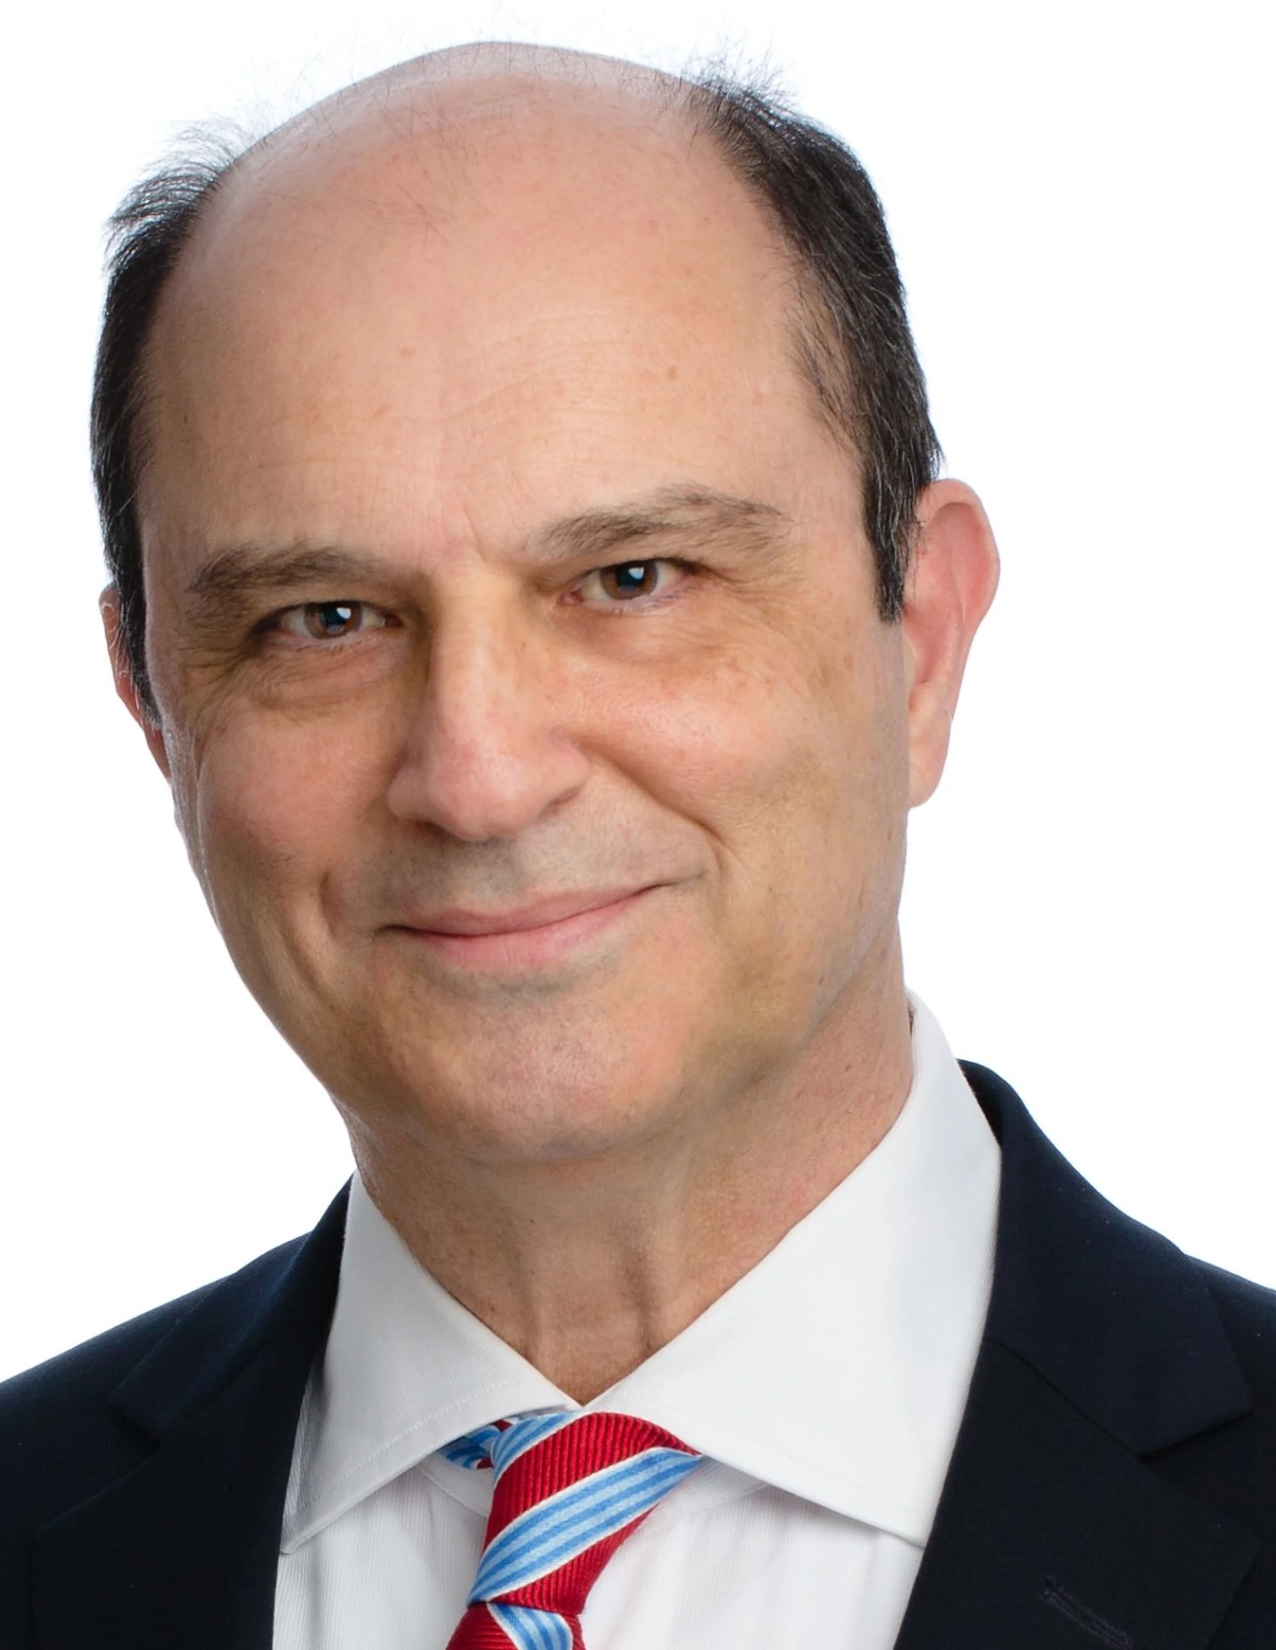
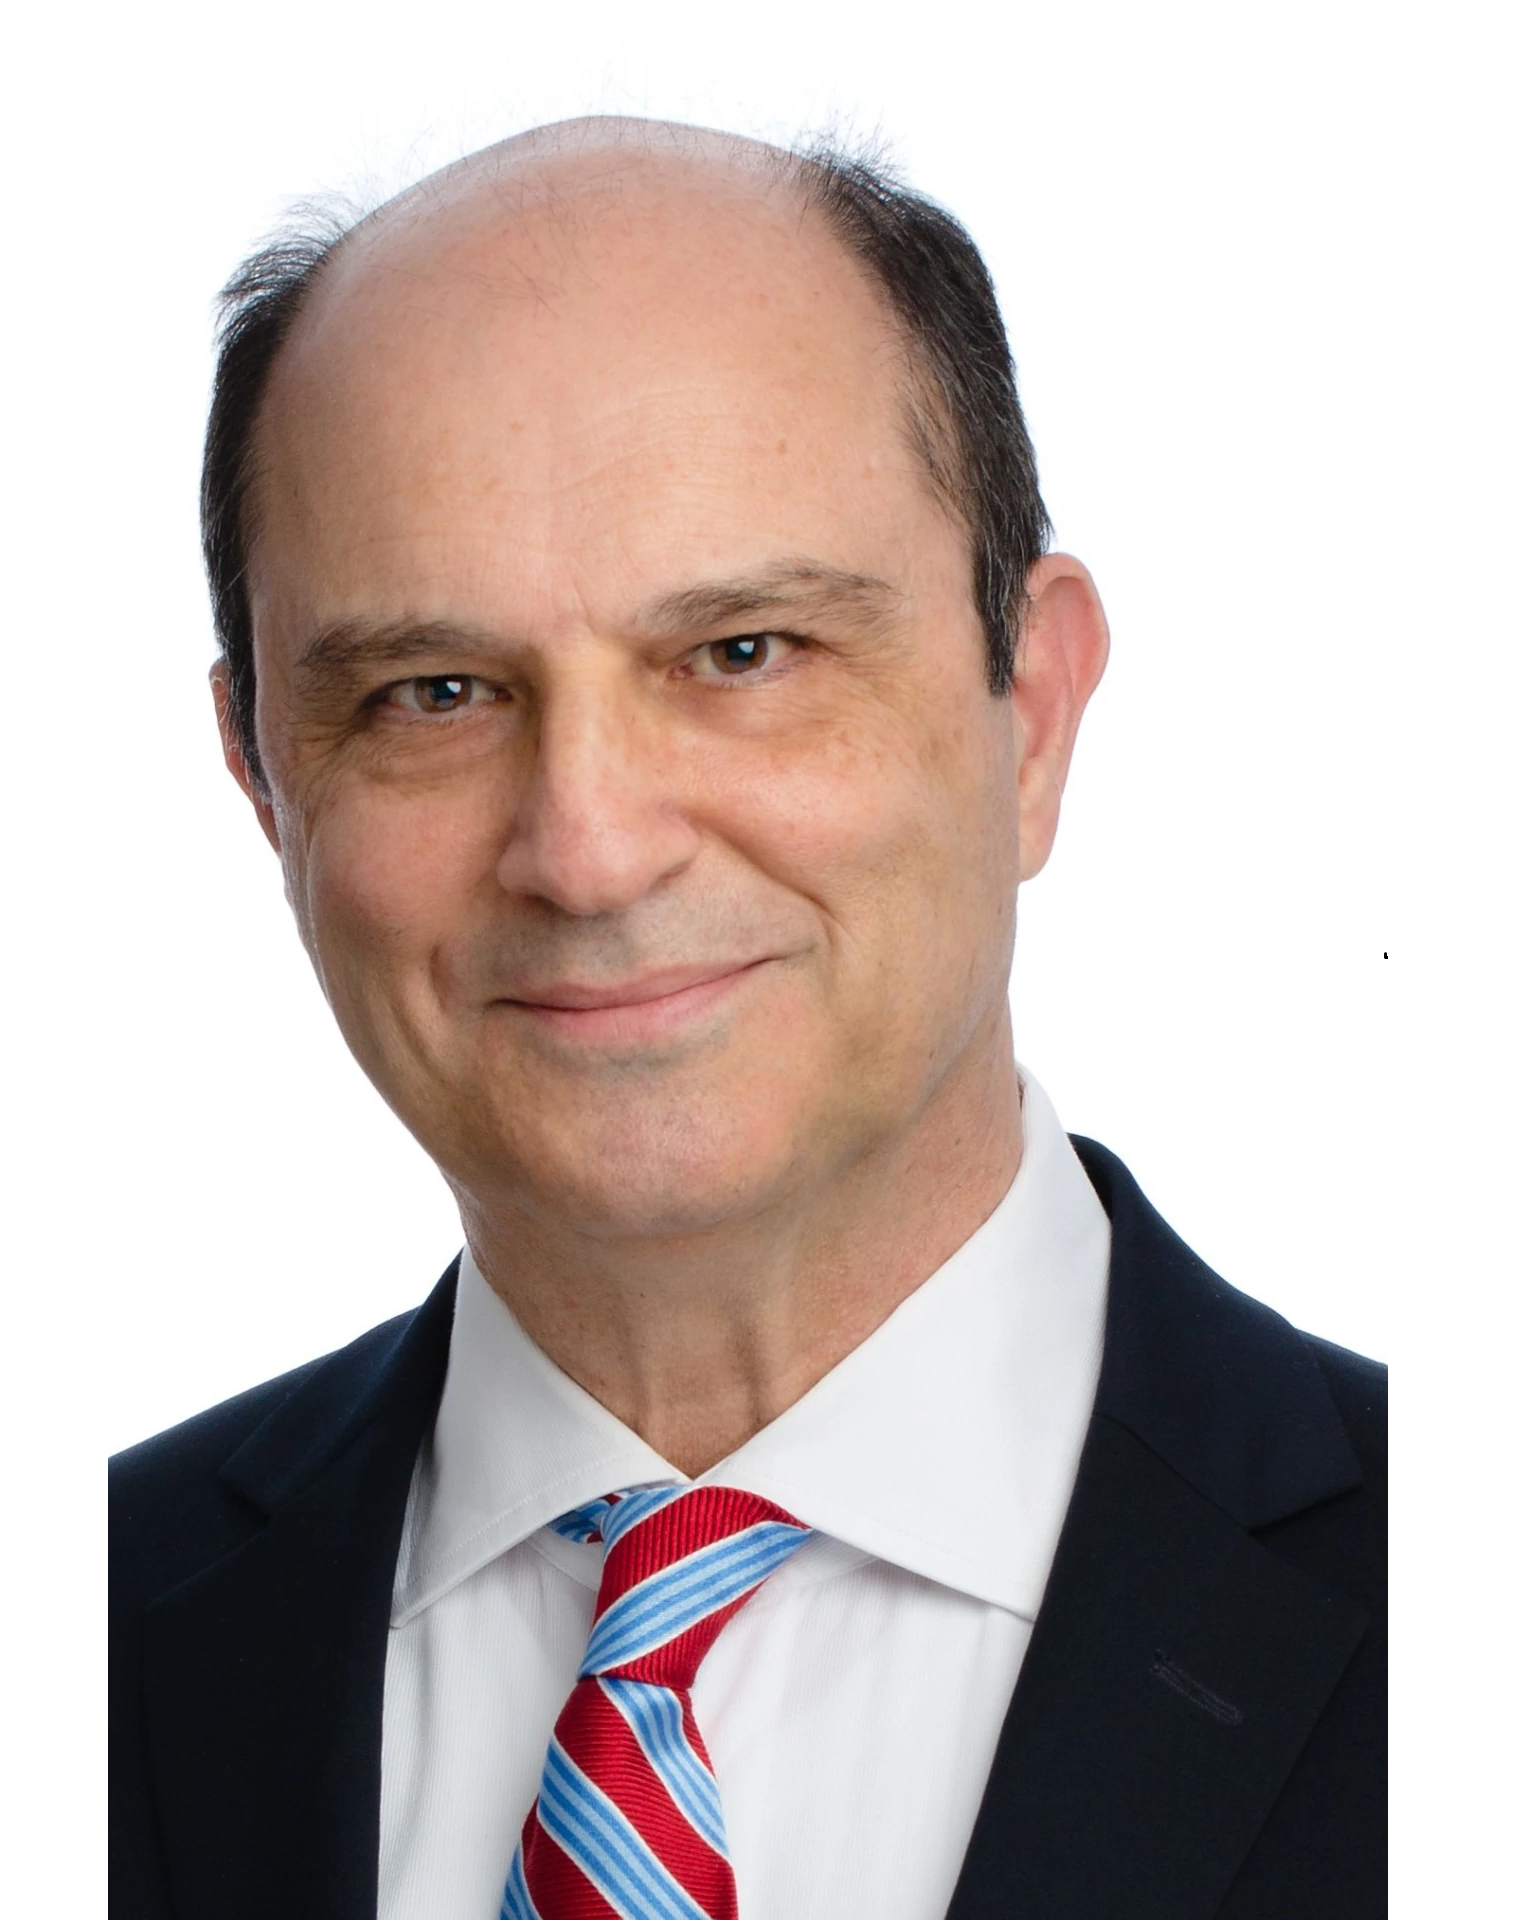
orgcommittee update

diff --git a/Overview/organizationcommittee.html b/Overview/organizationcommittee.html
@@ -102,12 +102,16 @@
                         <h2 style="text-align: center;">PC Chairs</h2>
                         <div class="row" style="display: flex; justify-content: center;">
                             <div style="text-align: center; display: inline-block; margin: 0 10px;">
-                                <span><img src="../images/orgcommittee/ym.png" alt="Yannis Manolopoulos" style="border: radius 0; width: 200px; height: 200px; position: relative; z-index: 10;" /></span>
-                                <p><strong><a href="https://www.yannismanolopoulos.eu/" target="_blank">Yannis Manolopoulos</a></strong><br>Open University of Cyprus</p>
+                                <span><img src="../images/orgcommittee/ym2.jpg" alt="Yannis Manolopoulos" style="border: radius 0; width: 200px; height: 200px; object-fit: cover; position: relative; z-index: 10;" /></span>
+                                <p><strong><a href="https://www.yannismanolopoulos.eu/" target="_blank">Yannis Manolopoulos</a></strong><br>Academia Europaea</p>
                             </div>
                             <div style="text-align: center; display: inline-block; margin: 0 10px;">
                                 <span><img src="../images/orgcommittee/koraljka.jpg" alt="Koraljka Golub" style="border: radius 0; width: 200px; height: 200px; position: relative; z-index: 10;" /></span>
                                 <p><strong><a href="https://lnu.se/personal/koraljka.golub" target="_blank">Koraljka Golub</a></strong><br>Linnaeus University</p>
+                            </div>
+                            <div style="text-align: center; display: inline-block; margin: 0 10px;">
+                                <span><img src="../images/orgcommittee/tilo2.png" alt="Wolf-Tilo Balke" style="border: radius 0; width: 200px; height: 200px; position: relative; z-index: 10;" /></span>
+                                <p><strong><a href="https://www.tu-braunschweig.de/ifis/mitarbeiter/prof-dr-wolf-tilo-balke " target="_blank">Wolf-Tilo Balke</a></strong><br>Technische Universität <br> Braunschweig </p>
                             </div>
                         </div>
                     </div>
